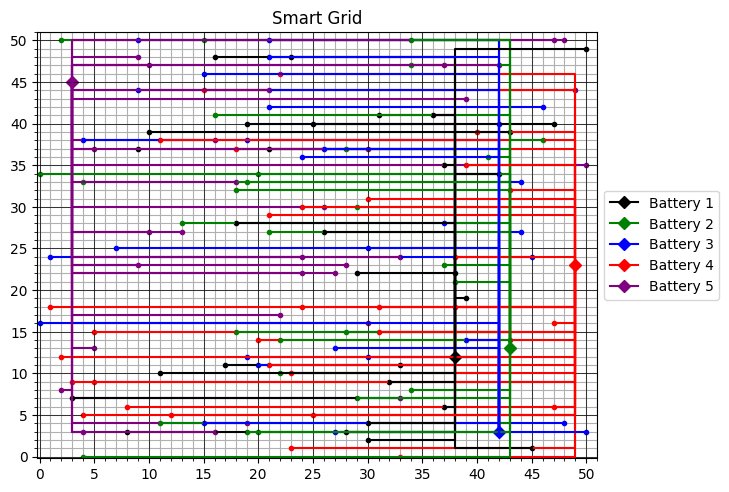
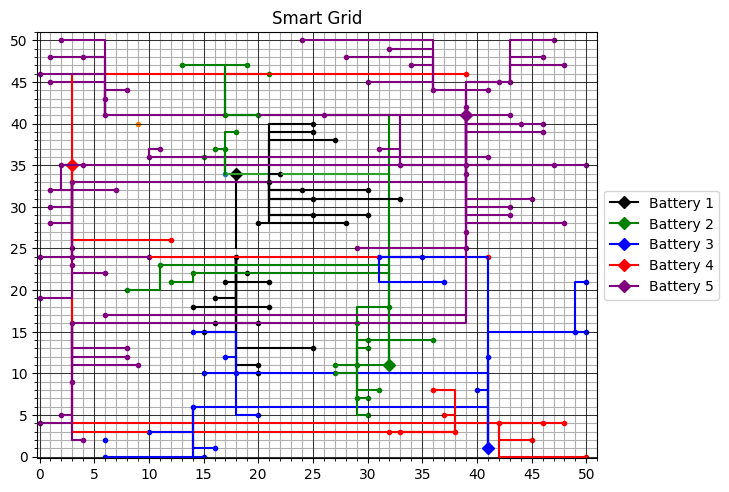
added readme, not yet done

Changed region(s): [[0.0604, 0.061, 0.8148, 0.9451], [0.7846, 0.1524, 0.8148, 0.2134]]

diff --git a/code/algorithms/cluster_algorithm.py b/code/algorithms/cluster_algorithm.py
@@ -5,8 +5,29 @@ from ..classes.cable import Cable
 from ..clusters import make_clusters
 from ..classes.data import Data
 from ..read import read_data
+from .distance_related_algorithm import shuffle, change_algorithm, mistakes
+from copy import deepcopy
+import random
 
-raw_data: Data = read_data()
+"""
+
+This algorithm works by making clusters of houses which are 'close'to one another.
+The clusters of houses are made in code/clusters.py.
+Clusters contain at least two houses and each house can only belong to one cluster.
+House in the cluster which is closest to the battery is called the main house.
+All other houses in the cluster connect to the main house and from there,
+every house connects to the nearest battery.
+
+"""
+
+def cluster_output(cluster, houses) -> int:
+    """
+    Returns total output of cluster.
+    """
+    output: int = 0
+    for house in cluster:
+        output += houses[house].max_output
+    return output
 
 def calc_middle(cluster, houses) -> Tuple[int, int]:
     """
@@ -24,14 +45,28 @@ def calc_middle(cluster, houses) -> Tuple[int, int]:
     x_avg = round(x / cluster_size)
     y_avg = round(y / cluster_size)
     return (x_avg, y_avg)
-        
 
-def closest_battery_to_cluster(middle: Tuple[int, int], batteries, cluster) -> Battery:
+
+def closest_house_to_battery(cluster, closest_battery, batteries, houses) -> int:
+    battery = batteries[closest_battery]
+    smallest_distance = 50
+    closest_house_id = 0
+    for house_id in cluster:
+        # Calculate distance between centre of cluster and battery
+        delta_x = abs(houses[house_id].x - battery.x)
+        delta_y = abs(houses[house_id].y - battery.y)
+        distance = delta_x + delta_y
+        if distance < smallest_distance:
+            smallest_distance = distance
+            main_house = house_id
+    return main_house
+
+
+def closest_battery_to_cluster(middle: Tuple[int, int], batteries) -> int:
     """
     Returns the battery id of the battery
     which is closest to the centre of a given cluster.
     """
-    
     # Distance between center of cluster and battery cannot exceed 50
     smallest_distance = 50
     closest_battery_id = 0
@@ -46,17 +81,75 @@ def closest_battery_to_cluster(middle: Tuple[int, int], batteries, cluster) -> B
     return closest_battery_id
 
 
-def connect_houses(cluster, houses) -> None:
+def houses_to_house(cluster, houses, main_house, closest_battery, batteries, data) -> None:
     """
-    Connects all houses in the cluster to the house in the cluster which is
-    closest to the battery. 
+    Connects all houses in the cluster to the one house in the cluster which is
+    closest to the battery. Adds the closest battery to all houses but the main
+    house in the cluster.
     """
+    for house_id in cluster:
+        if house_id != main_house:
+            houses[house_id].to_house = main_house
+            houses[house_id].to_battery = closest_battery
+            batteries[closest_battery].add_house(houses[house_id])
+            cable = Cable(houses[house_id], houses[main_house])
+            cable.add_cables()
+            data.cables[house_id] = cable
 
-def cluster_algorithm(houses, batteries):
+
+def main_house_to_battery(houses, main_house, closest_battery, batteries, data) -> None:
+    """
+    Connects the main house to the closest battery. 
+    """
+    cable = Cable(houses[main_house], batteries[closest_battery])
+    cable.add_cables()
+    # Adds cable to data dictionary
+    data.cables[main_house] = cable
+    # Connects main house to battery
+    houses[main_house].to_battery = closest_battery
+    batteries[closest_battery].add_house(houses[main_house])
+
+def connect_cluster(cluster, houses, main_house, closest_battery, batteries, data) -> None:
+    houses_to_house(cluster, houses, main_house, closest_battery, batteries, data)
+    main_house_to_battery(houses, main_house, closest_battery, batteries, data)
+
+
+def left_over_houses(houses, batteries, data) -> None:
+    """
+    Adds left over houses to random batteries.
+    """
+    bat = random.randint(1, 5)
+    for house in houses:
+        if houses[house].to_battery == None:
+            if houses[house].max_output < batteries[bat].capacity:
+                cable = Cable(houses[house], batteries[bat])
+                cable.add_cables()
+                data.cables[house] = cable
+                houses[house].to_battery = bat
+                batteries[bat].add_house(houses[house])
+
+
+def cluster_algorithm(houses, batteries) -> Data:
+    data = Data(houses, batteries)
     clusters = make_clusters(houses)
     for cluster in clusters:
         middle = calc_middle(cluster, houses)
-        closest_battery = closest_battery_to_cluster(middle, batteries, cluster)
+        closest_battery = closest_battery_to_cluster(middle, batteries)
+        output = cluster_output(cluster, houses)
         # The first house in the cluster will always be the closest to the battery
-        closest_house = cluster[0]
-    pass
+        # Is this true?????
+        main_house = closest_house_to_battery(cluster, closest_battery, batteries, houses)
+        
+        if batteries[closest_battery].capacity > output:
+            connect_cluster(cluster, houses, main_house, closest_battery, batteries, data)
+        else:
+            if closest_battery < 5:
+                closest_battery += 1
+            elif closest_battery == 1:
+                closest_battery += 1
+            connect_cluster(cluster, houses, main_house, closest_battery, batteries, data)
+        left_over_houses(houses, batteries, data)
+    if mistakes(houses):
+        shuffle(houses, batteries, True)
+        print(batteries)
+    return data

diff --git a/code/clusters.py b/code/clusters.py
@@ -3,14 +3,14 @@ from typing import Dict, List
 
 """
 Cluster.py contains two function which together make clusters of houses which
-are relatively close to one another. A house cannot be part of multiple`clusters
+are relatively close to one another. A house cannot be part of multiple clusters
 at the same time. These cluster can be used in an algorithm to efficiently
 connect houses to batteries by sharing cables. 
 """
 
 def make_neighbours(houses: Dict[int, House]) -> Dict[int, list]:
     """
-    Returns a dict containing a houses (keys) and their neighbouring houses (values).
+    Returns a dict containing houses (keys) and their neighbouring houses (values).
     Manhattan distance is calculated between all houses.
     Only adds neighbouring houses with a distance smaller than 5 units to dict.
     """
@@ -29,7 +29,7 @@ def make_neighbours(houses: Dict[int, House]) -> Dict[int, list]:
             distance = abs(x_home - x_away) + abs(y_home - y_away)
             # Will not create a new key for a house if that house wat already part of a value
             # Maximum distance is also determined here
-            if distance < 5 and (away not in neighbours or home not in neighbours[away]):
+            if distance < 10 and (away not in neighbours or home not in neighbours[away]):
                 if home not in neighbours:
                     # If key not yet in dict, make empty list for the key
                     neighbours[home] = []

diff --git a/code/classes/battery.py b/code/classes/battery.py
@@ -1,12 +1,15 @@
+from typing import List
+
 class Battery:
     """
-    
+    Class which represents a battery object. Batteries have an x and y
+    coordinate, as well as a maximum capacity and an id.
     """
     def __init__(self, x, y, capacity, id):
         self.x = x
         self.y = y
         self.capacity = capacity
-        self.to_houses = []
+        self.to_houses: List[int] = []
         self.connections = 0
         self.id = id
         self.closest_houses = []
@@ -19,14 +22,12 @@ class Battery:
             self.connections -= 1
             house.to_battery = None
 
-
     def add_house(self, house):
         if house.max_output < self.capacity:
             self.to_houses.append(house.id)
             self.capacity -= house.max_output
             self.connections += 1
             house.to_battery = self.id
-
     
     def __repr__(self) -> str:
         return f"id: {self.id}\tcoordinates = ({self.x}, {self.y})\t| capacity = {self.capacity}\t| connections = {self.connections}\n\tto houses = {self.to_houses}\n"

diff --git a/main.py b/main.py
@@ -18,7 +18,6 @@ import time
 """
 
 Main file which is used to call all other functions in other files.
-
 Usage: --district {number of district the user would like to select}.
 
 """
@@ -28,6 +27,10 @@ start_time = time.time()
 if __name__ == "__main__":    
     # Read in the raw data
     raw_data: Data = read_data()
+    data = cluster_algorithm(raw_data.houses, raw_data.batteries)
+    plot_grid(data.houses, data.batteries, data.cables)
+
+"""
     # cluster_algorithm(raw_data.houses, raw_data.batteries)
     data = random_algorithm(raw_data.houses, raw_data.batteries)
     data.add_cables()
@@ -82,3 +85,4 @@ if __name__ == "__main__":
     # Plot the dat  a
     plot_histogram(all_scores, average_score)
     plot_grid(data_best_score.houses, data_best_score.batteries, data_best_score.cables) #creates outputfile which contains data of both dictionaries -> see output.txt
+"""

diff --git a/code/classes/house.py b/code/classes/house.py
@@ -11,6 +11,9 @@ class House:
         self.id = id
         self.to_battery: int = None
         self.incluster: bool = False
+        self.to_house: int = None
 
     def __repr__(self) -> str:
-        return f" id: {self.id}\tcoordinates = ({self.x}, {self.y})\t| output = {self.max_output}\t| battery:{self.to_battery}\n"
+        return f" id: {self.id}\tcoordinates = ({self.x}, {self.y})\t| output = {self.max_output}\t| battery:{self.to_battery} | to house: {self.to_house}\n"
+
+    

diff --git a/code/classes/data.py b/code/classes/data.py
@@ -10,7 +10,8 @@ class Data():
     def __init__(self, houses: Dict[int, House], batteries: Dict[int, Battery]) -> None:
         self.houses = houses
         self.batteries = batteries
-        self.cables = {} # Dict containing house_id and Cable object
+        # Key = house_id; value = Cable object
+        self.cables: Dict[int, Cable] = {}
         self.cost = 0
         self.score = 0
         self.total_cable_length = 0

diff --git a/code/classes/cluster.py b/code/classes/cluster.py
@@ -1,0 +1,14 @@
+from typing import List, Dict, Tuple
+
+class Cluster:
+
+    def __init__(self, id):
+        self.output = 0
+        self.houses = []
+        self.id = id
+
+    def output(self):
+        pass
+
+    def add_houses(self, house_id):
+        self.houses.append(house_id)

diff --git a/code/visualisation/grid.py b/code/visualisation/grid.py
@@ -75,7 +75,7 @@ def axes_numbers():
 def draw_cables(cables):
     for cable in cables:
         coordinates = cables[cable].segments
-        battery_id = cables[cable].end.id
+        battery_id = cables[cable].start.to_battery
 
         x_coordinates = []
         y_coordinates = []
